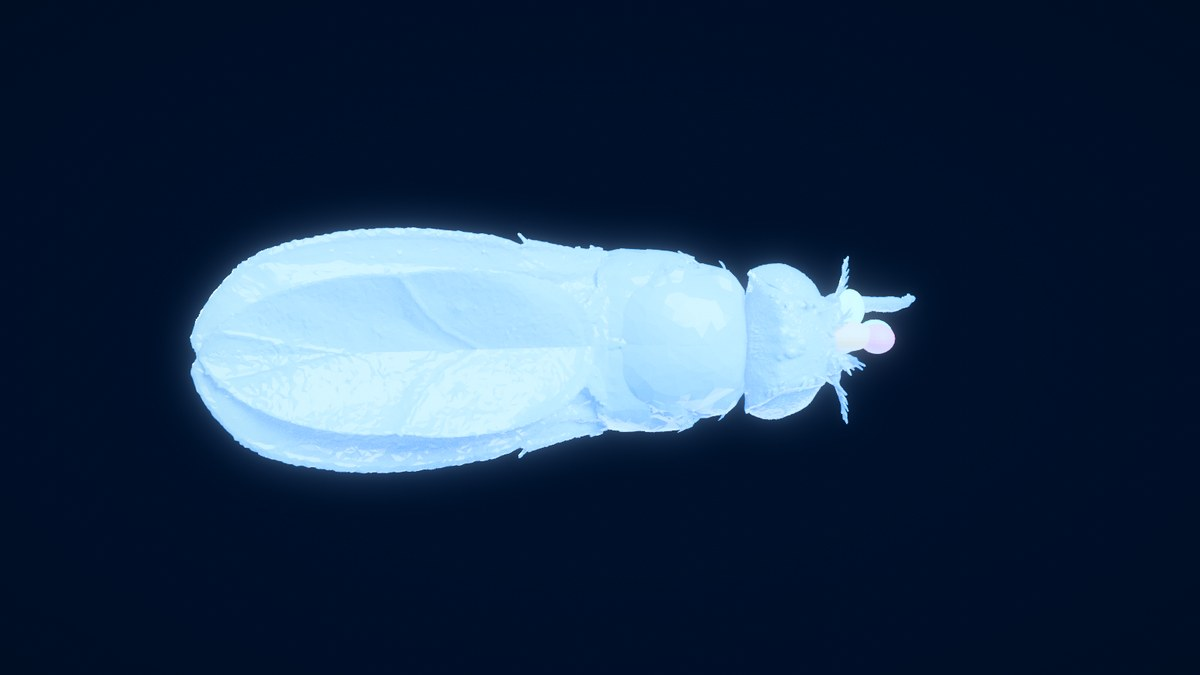
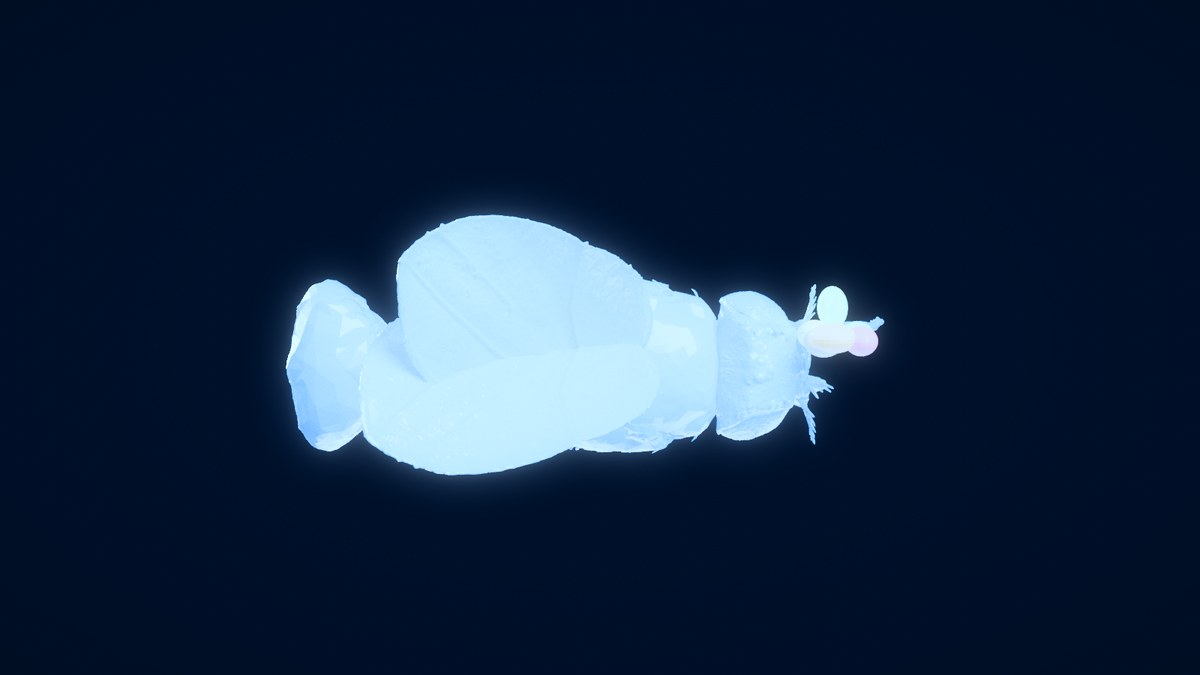
hero: wings swept back and up (side profile), stronger cyan glow

Changed region(s): [[0.1233, 0.28, 0.7708, 0.7156]]

diff --git a/scripts/assemble_fly_obj.py b/scripts/assemble_fly_obj.py
@@ -22,6 +22,21 @@ for side in ("L", "R"):
 
 rig = R.load_rig()
 T = R.world_transforms(rig)
+# spread the wings outward/back like the reference figure
+import numpy as _np
+def _rot(axis, deg):
+    a = _np.radians(deg); c, sn = _np.cos(a), _np.sin(a)
+    if axis == "z":
+        return _np.array([[c, -sn, 0], [sn, c, 0], [0, 0, 1]], _np.float32)
+    if axis == "y":
+        return _np.array([[c, 0, sn], [0, 1, 0], [-sn, 0, c]], _np.float32)
+    return _np.array([[1, 0, 0], [0, c, -sn], [0, sn, c]], _np.float32)
+WING_SPREAD = True
+for nm in list(T):
+    if nm.endswith("_wing"):
+        side = 1.0 if nm[0] == "l" else -1.0
+        Rw, tw = T[nm]
+        T[nm] = (_rot("z", 26.0 * side) @ _rot("y", 30.0) @ _rot("x", -12.0) @ Rw, tw)
 verts, faces = [], []
 off = 0
 used = 0

diff --git a/scripts/render_blender_fly.py b/scripts/render_blender_fly.py
@@ -41,15 +41,15 @@ def S(name, val, alt=None):
             try: bsdf.inputs[n].default_value = val; return True
             except Exception: pass
     return False
-S("Base Color", (0.04, 0.42, 1.0, 1.0))
+S("Base Color", (0.03, 0.34, 0.95, 1.0))
 S("Roughness", 0.22)
 S("IOR", 1.45)
-S("Transmission Weight", 0.30, "Transmission")
+S("Transmission Weight", 0.22, "Transmission")
 S("Subsurface Weight", 0.22, "Subsurface")
 if "Subsurface Radius" in bsdf.inputs:
     bsdf.inputs["Subsurface Radius"].default_value = (0.00035, 0.0006, 0.0010)
 S("Emission Color", (0.06, 0.45, 1.0, 1.0))
-S("Emission Strength", 0.35)
+S("Emission Strength", 0.75)
 S("Coat Weight", 0.35, "Clearcoat")
 fly.data.materials.clear(); fly.data.materials.append(mat)
 
